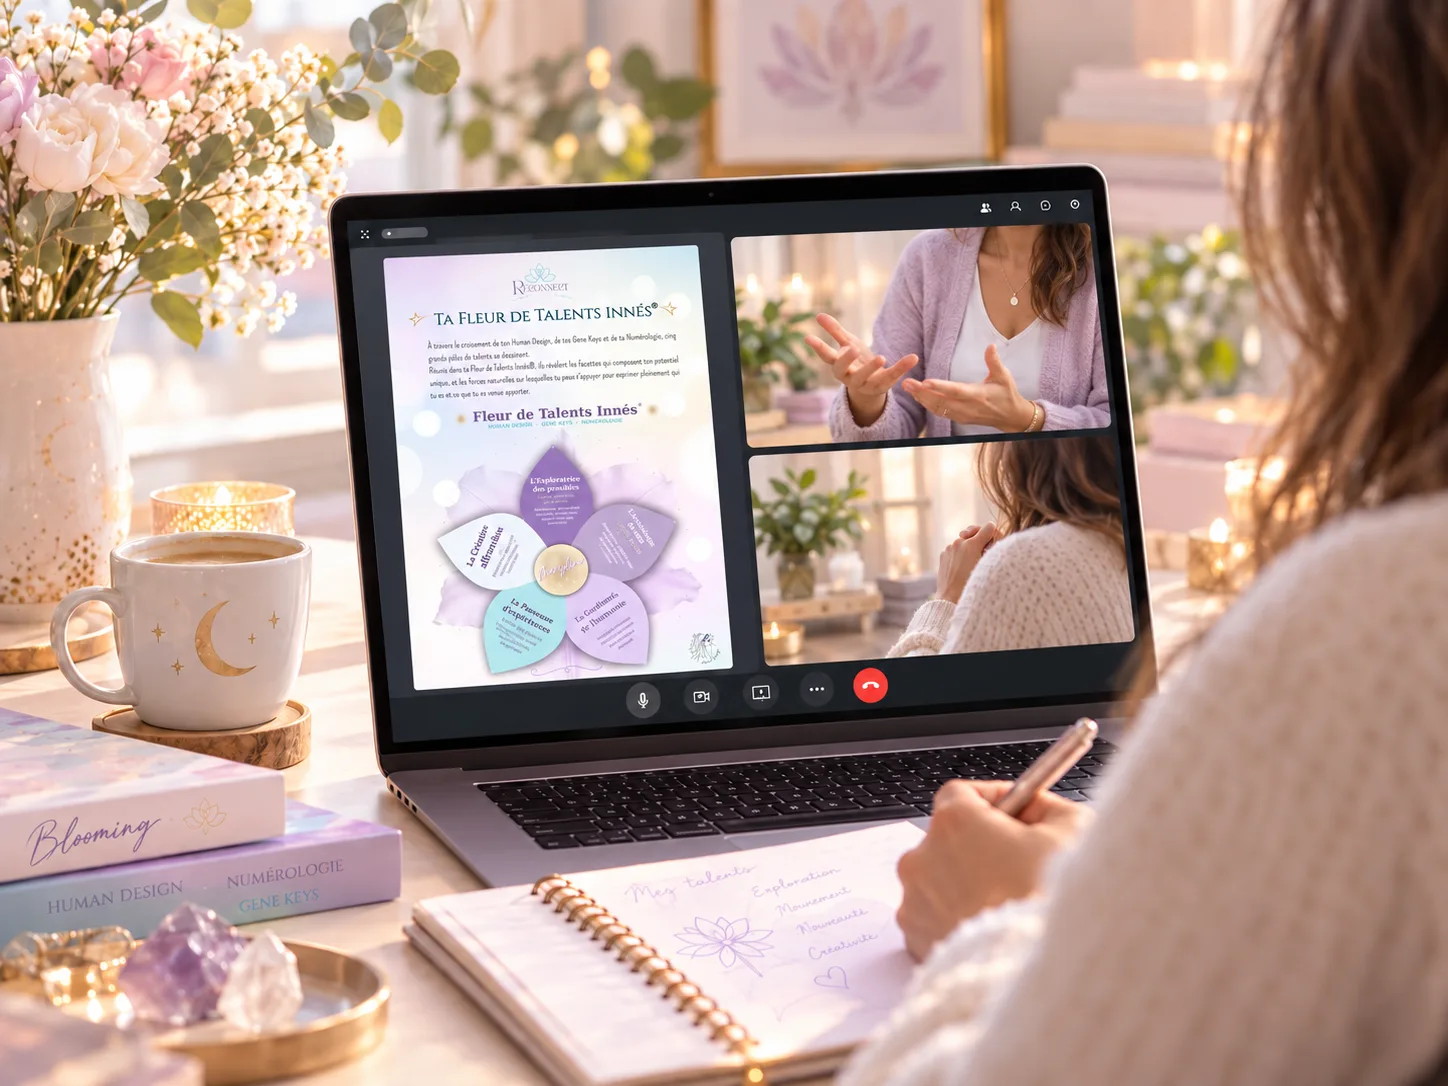
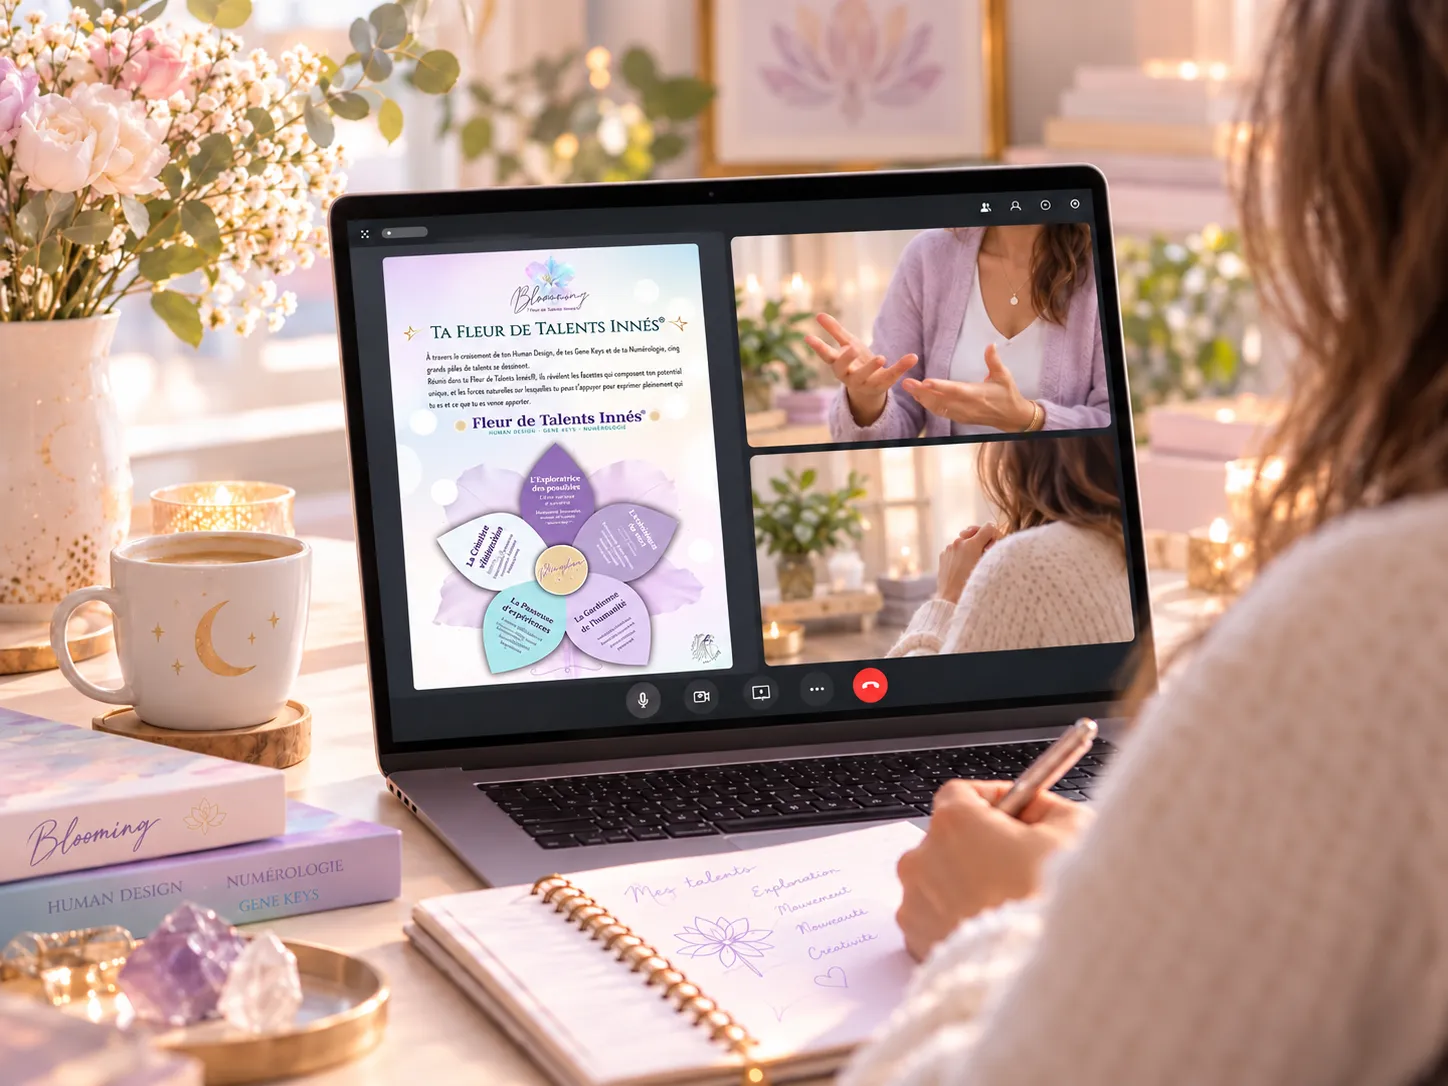
feat(mes-offres): new Blooming mockups, mobile visual order and tighter images
Replace the two Blooming mockups that showed the RECONNECT logo, use the
visio session with the tablet inset on the overview, drop the "En complement"
label before INSIDE, and on mobile place each visual before the bullets.

diff --git a/lavieenhd/components/sections/offres/OffreLandingSection.tsx b/lavieenhd/components/sections/offres/OffreLandingSection.tsx
@@ -1,4 +1,4 @@
-import type { CSSProperties } from "react";
+import { Fragment, type CSSProperties } from "react";
 import Image from "next/image";
 import type { Offre, OffreColor } from "@/lib/content/offres";
 import { OffreVisuel } from "@/components/sections/offres/OffreVisuals";
@@ -58,6 +58,15 @@ export function OffreLandingSection({
   const bulletColor = BULLET_COLOR[offre.color];
   const isReversed = index % 2 === 1;
   const isSoin = offre.slug === "soin-energetique";
+  // Sur mobile, le visuel passe dans le texte (avant les puces), sauf pour le
+  // Soin où il reste en tête (demande de Marion).
+  const visuelDansTexte = !isSoin && offre.visuel !== undefined;
+  const avantParagraphe = offre.visuel?.avantParagrapheMobile;
+  const visuelMobile = (
+    <div className="mt-8 flex justify-center lg:hidden">
+      <OffreVisuel offre={offre} />
+    </div>
+  );
   // Lien externe systeme.io → nouvel onglet ; pages de vente internes → même onglet
   const externalProps = (url: string) =>
     url.startsWith("http") ? { target: "_blank", rel: "noopener noreferrer" } : {};
@@ -111,7 +120,9 @@ export function OffreLandingSection({
             }`}
           >
             {/* Mockup de l'offre */}
-            <div className="flex items-center justify-center">
+            <div
+              className={`flex items-center justify-center ${visuelDansTexte ? "max-lg:hidden" : ""}`}
+            >
               <OffreVisuel offre={offre} />
             </div>
 
@@ -161,13 +172,15 @@ export function OffreLandingSection({
               </p>
 
               {offre.briefDescription.split("\n\n").map((para, i) => (
-                <p
-                  key={i}
-                  className="mt-5 max-w-[480px] font-sans text-[14px] font-normal leading-relaxed text-ink-deep md:text-[15px]"
-                >
-                  {avecItaliques(para)}
-                </p>
+                <Fragment key={i}>
+                  {visuelDansTexte && avantParagraphe === i && visuelMobile}
+                  <p className="mt-5 max-w-[480px] font-sans text-[14px] font-normal leading-relaxed text-ink-deep md:text-[15px]">
+                    {avecItaliques(para)}
+                  </p>
+                </Fragment>
               ))}
+
+              {visuelDansTexte && avantParagraphe === undefined && visuelMobile}
 
               {offre.briefBullets.length > 0 && (
                 <ul className="mt-6 flex flex-col gap-3">

diff --git a/lavieenhd/lib/content/offres.ts b/lavieenhd/lib/content/offres.ts
@@ -50,6 +50,12 @@ export interface Offre {
     incrustation?: { src: string; width: number; height: number; alt: string };
     /** Seconde image affichée sous le visuel (ex. les 6 Guides papier) */
     complement?: { src: string; width: number; height: number; alt: string };
+    /**
+     * Sur mobile, le visuel se place dans le texte, avant les puces (demande de
+     * Marion). Pour une offre sans puces, indice du paragraphe de
+     * `briefDescription` devant lequel le placer.
+     */
+    avantParagrapheMobile?: number;
   };
   /** Couleur du fond de la zone sous-marque */
   color: OffreColor;
@@ -139,10 +145,16 @@ export const OFFRES: Offre[] = [
     logoSrc: "/assets/logo-blooming.png",
     logoTitre: { src: "/assets/logos-titres/blooming.webp", width: 491, height: 448 },
     visuel: {
-      src: "/assets/blooming/fleur-tablette-pages.webp",
-      width: 1122,
-      height: 1402,
-      alt: "La Fleur de Talents Innés sur une tablette, entourée de pages du document personnalisé",
+      src: "/assets/blooming/coaching.webp",
+      width: 1448,
+      height: 1086,
+      alt: "Un coaching Blooming en visio, la Fleur de Talents Innés partagée à l'écran",
+      incrustation: {
+        src: "/assets/blooming/fleur-tablette.webp",
+        width: 1122,
+        height: 1402,
+        alt: "La Fleur de Talents Innés sur une tablette, entourée de pages du document personnalisé",
+      },
     },
     color: "turquoise",
     signature: true,
@@ -185,6 +197,8 @@ export const OFFRES: Offre[] = [
       width: 1122,
       height: 1402,
       alt: "Le parcours RECONNECT ouvert sur un ordinateur portable",
+      // Avant « Et parce que chacun avance à sa façon… »
+      avantParagrapheMobile: 4,
     },
     color: "violet",
     href: EXTERNAL.offre.reconnect,

diff --git a/lavieenhd/app/(site)/mes-offres/page.tsx b/lavieenhd/app/(site)/mes-offres/page.tsx
@@ -1,10 +1,8 @@
 import type { Metadata } from "next";
-import { Fragment } from "react";
 import { OFFRES, type Offre } from "@/lib/content/offres";
 import { HERO, PORTE_SECTIONS, SOIN_TRANSITION } from "@/lib/content/mes-offres";
 import { OffreLandingSection } from "@/components/sections/offres/OffreLandingSection";
 import {
-  ComplementLabel,
   InsideComplement,
   PorteHeading,
   PortesCards,
@@ -65,14 +63,7 @@ export default function MesOffresPage() {
           <QuizPresentation quiz={section.quiz} ton={section.porte.ton} />
           {section.offres.map((slug) => carte(slug))}
           {section.insideComplement && <InsideComplement label={section.insideComplement.label} />}
-          {section.complementOffre && (
-            <Fragment>
-              <div className="bg-[linear-gradient(135deg,#f8f6fa,#edf9f9)] px-6 pt-12 pb-2 md:pt-16">
-                <ComplementLabel>En complément</ComplementLabel>
-              </div>
-              {carte(section.complementOffre)}
-            </Fragment>
-          )}
+          {section.complementOffre && carte(section.complementOffre)}
         </section>
       ))}
 

diff --git a/lavieenhd/components/sections/offres/OffreVisuals.tsx b/lavieenhd/components/sections/offres/OffreVisuals.tsx
@@ -55,7 +55,8 @@ export function OffreVisuel({ offre }: { offre: Offre }) {
   if (!complement) return principal;
 
   return (
-    <div className="flex w-full max-w-[520px] flex-col items-center gap-6">
+    // Mobile : images rapprochées, leurs bords fondus laissaient un grand vide.
+    <div className="flex w-full max-w-[520px] flex-col items-center gap-6 max-lg:-space-y-10 max-lg:gap-0">
       {principal}
       <Image
         src={complement.src}

diff --git a/lavieenhd/lib/content/mes-offres.ts b/lavieenhd/lib/content/mes-offres.ts
@@ -32,7 +32,7 @@ export interface PorteSection {
   offres: string[];
   /** Petite carte INSIDE renvoyant vers sa carte complète (portes 1 et 2) */
   insideComplement?: PorteComplement;
-  /** Offre complète affichée sous « En complément » (INSIDE dans la porte 3) */
+  /** Offre complète affichée en fin de porte (INSIDE dans la porte 3) */
   complementOffre?: string;
 }
 
